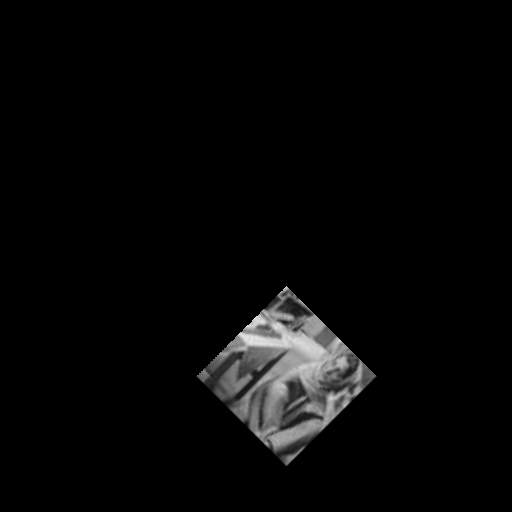
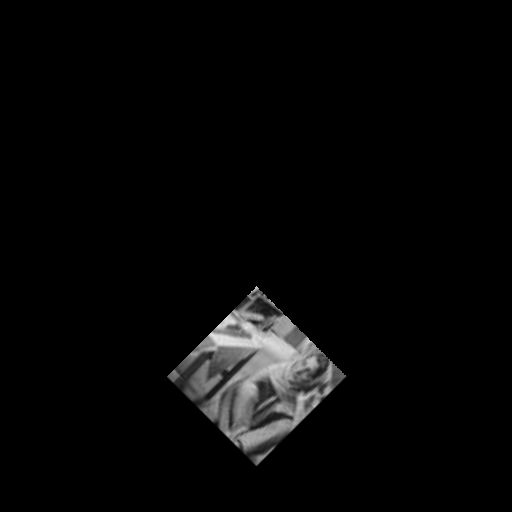
erroneous transformation

Changed region(s): [[0.3125, 0.5625, 0.75, 0.9062]]

diff --git a/1/Q5.py b/1/Q5.py
@@ -17,7 +17,7 @@ for i in range(M1):
 	for j in range(N1):
 		padded_matrix[i][j] = input_matrix[i][j]
 
-registered_matrix = np.ones((M1,N1))*-1
+output_matrix = np.ones((512,512))*-1
 # input_img.show()
 
 # ref_img = Image.open('assign1.jpg')
@@ -29,17 +29,21 @@ X = np.array([[-1,121,1],[-18,102,1],[19,55,1]])
 # T_inverse = np.linalg.inv(np.array([[1.414,-1.414,0],[1.414,1.414,0],[30,30,1]]))
 
 Z = np.dot(np.linalg.inv(V),X)
+Z[0][1] = 0-Z[0][1]
+Z[1][0] = 0-Z[1][0]
 print(Z)
+# Z = np.array([[1.414,-1.414,0],[1.414,1.414,0],[30,30,1]])
 
 # inverse = np.linalg.inv(Z)
+for i in range(512):
+	for j in range(512):
 
-for i in range(M1):
-	for j in range(N1):
-		output = np.dot(np.array([i,j,1]),Z)
-		x = output[0]
-		y = output[1]
+		output = np.array([i,j,1])
+		I = np.dot(output, Z)
+		x = I[0]
+		y = I[1]
 
-		if x<M1 and x>=0 and y<N1 and y>=0:
+		if x<512 and x>=0 and y<512 and y>=0:
 
 			if ceil(x)!=x:
 				x1 = floor(x)
@@ -82,9 +86,9 @@ for i in range(M1):
 
 			A = np.dot(np.linalg.inv(X), Y)
 
-			registered_matrix[i][j] = np.dot(np.array([x,y,x*y,1]),A)
+			output_matrix[i][j] = np.dot(np.array([x,y,x*y,1]),A)
 
-img = Image.fromarray(registered_matrix)
+img = Image.fromarray(output_matrix)
 img.show()
 
 

diff --git a/1/Q4.py b/1/Q4.py
@@ -26,7 +26,7 @@ N2 = 8*N1
 output_matrix = np.ones((M2,N2))*-1
 
 # transformation_matrix = np.array([[0.707,-0.707,0],[0.707,0.707,0],[0,0,1]])
-transformation_matrix = np.array([[1.414,-1.414,0],[1.414,1.414,0],[30,30,1]])\
+transformation_matrix = np.array([[1.414,-1.414,0],[1.414,1.414,0],[30,0,1]])
 # transformation_matrix = np.array([[0,-1,0],[1,0,0],[0,0,1]])
 # transformation_matrix = np.array([[0.52,-0.52,0],[0.52,0.52,0],[0,0,1]])
 
